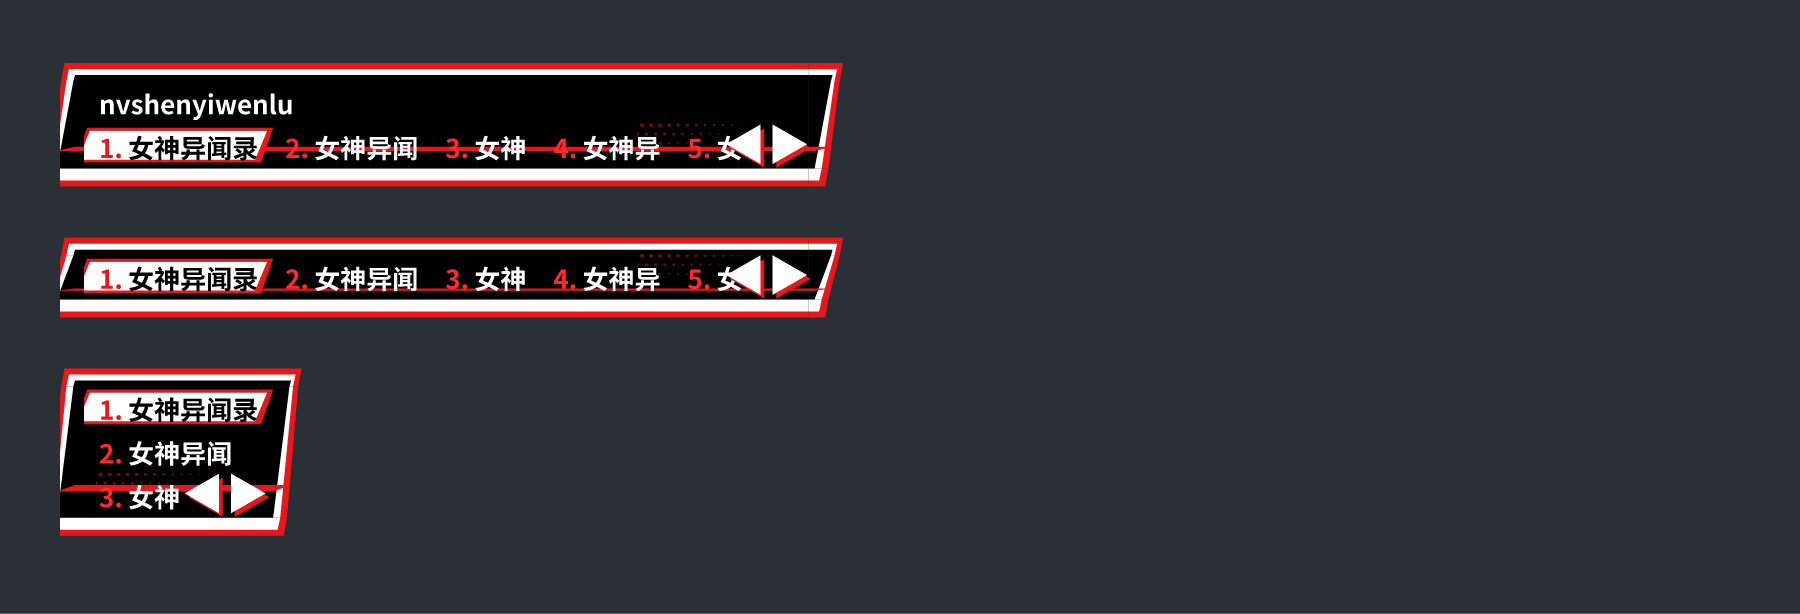
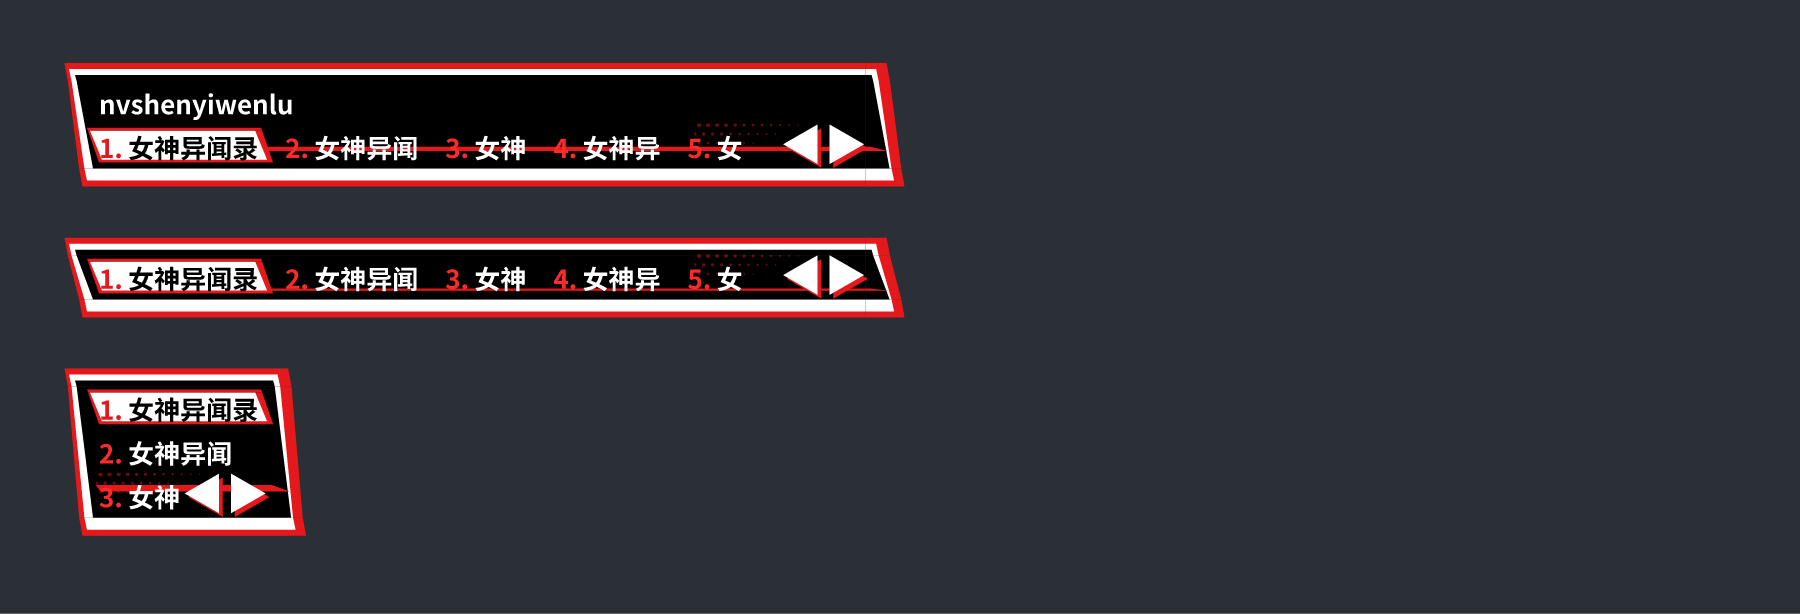
fix: keep slab coordinates inside the SVG canvas
The bottom edges trailed left, pushing the lower-left corners of all
three slabs (and the highlight tag) to negative x, where the SVG
viewport clipped them into a hard vertical cut. Flip the skew so bottom
edges trail right: left edges stay vertical and the slant lives entirely
inside the right margin column. Inset the pinstripe to stay inside the
black parallelogram.

diff --git a/scripts/generate_assets.py b/scripts/generate_assets.py
@@ -58,11 +58,11 @@ class PanelGeometry:
     # Slanted end caps: how far a slab's bottom edge trails its top edge.
     skew: float = 12.0
     # Crimson backing slab: lower and further right, so it peeks out there.
-    red: tuple[float, float, float, float] = (3.0, 2.0, 457.0, 66.0)
+    red: tuple[float, float, float, float] = (3.0, 2.0, 448.0, 66.0)
     # White outline slab.
-    white: tuple[float, float, float, float] = (6.0, 6.0, 453.0, 62.0)
+    white: tuple[float, float, float, float] = (6.0, 6.0, 441.0, 62.0)
     # Black core slab, the text area.
-    black: tuple[float, float, float, float] = (10.0, 10.0, 450.0, 54.0)
+    black: tuple[float, float, float, float] = (10.0, 10.0, 438.0, 54.0)
     # Crimson pinstripe along the lower edge of the black slab.
     pinstripe_offset: float = 8.0
     pinstripe_h: float = 2.0
@@ -81,13 +81,17 @@ def svg_root(width: float, height: float, content: str) -> str:
 
 
 def svg_slab(rect: tuple[float, float, float, float], skew: float, fill: str) -> str:
-    """Emit one slab: a rectangle whose bottom edge trails left by `skew`."""
+    """Emit one slab: a rectangle whose bottom edge trails right by `skew`.
+
+    Left edges stay vertical, so no coordinate ever leaves the canvas on the
+    left; the slant lives entirely inside the right margin column.
+    """
     left, top, right, bottom = rect
     points = (
         (left, top),
         (right, top),
-        (right - skew, bottom),
-        (left - skew, bottom),
+        (right + skew, bottom),
+        (left + skew, bottom),
     )
     path = " ".join(f"{x:g},{y:g}" for x, y in points)
     return f'  <polygon points="{path}" fill="{fill}"/>\n'
@@ -105,9 +109,9 @@ def generate_panel(geometry: PanelGeometry = PANEL) -> str:
     content += svg_slab(black, g.skew, p.black)
     content += svg_slab(
         (
-            black[0],
+            black[0] + g.skew + 1.0,
             black[3] - g.pinstripe_offset - g.pinstripe_h,
-            black[2],
+            black[2] - 1.0,
             black[3] - g.pinstripe_offset,
         ),
         g.skew,
@@ -130,8 +134,8 @@ def generate_highlight(
     """
     del margin_left, margin_right
     p = PALETTE
-    red = (2.0, 2.0, width - 2.0, height - 4.0)
-    white = (4.0, 4.0, width - 6.0, height - 6.0)
+    red = (2.0, 2.0, width - 10.0, height - 4.0)
+    white = (4.0, 4.0, width - 14.0, height - 6.0)
     content = svg_slab(red, skew, p.crimson)
     content += svg_slab(white, skew, p.white)
     return svg_root(width, height, content)

diff --git a/docs/IMPLEMENTATION.md b/docs/IMPLEMENTATION.md
@@ -87,16 +87,18 @@ The generator emits the matching `theme.conf`. Key sections:
 #### panel.svg (input panel background)
 
 - Canvas: 460x72 px
-- Crimson backing slab (3, 2)-(457, 66), white outline (6, 6)-(453, 62),
-  black core (10, 10)-(450, 54), all skewed by 12 px on the bottom edge
+- Crimson backing slab (3, 2)-(448, 66), white outline (6, 6)-(441, 62),
+  black core (10, 10)-(438, 54); bottom edges trail right by 12 px so the
+  left edges stay vertical and nothing leaves the canvas
 - Crimson pinstripe inside the black core, 8 px above its bottom edge
-- Margin: L24 R26 T14 B18
+- Margin: L24 R26 T14 B18; the slant lives entirely in the right column
 
 #### highlight.svg (candidate highlight)
 
 - Canvas: 132x30 px
-- Crimson slab shifted down-right behind a white tag, skew 8 px
-- Margin: L10 R12 T4 B4
+- Crimson slab (2, 2)-(122, 26) behind a white tag (4, 4)-(118, 24),
+  bottom edges trailing right by 8 px
+- Margin: L10 R12 T4 B4; the slant lives entirely in the right column
 
 #### halftone.svg (panel overlay)
 
